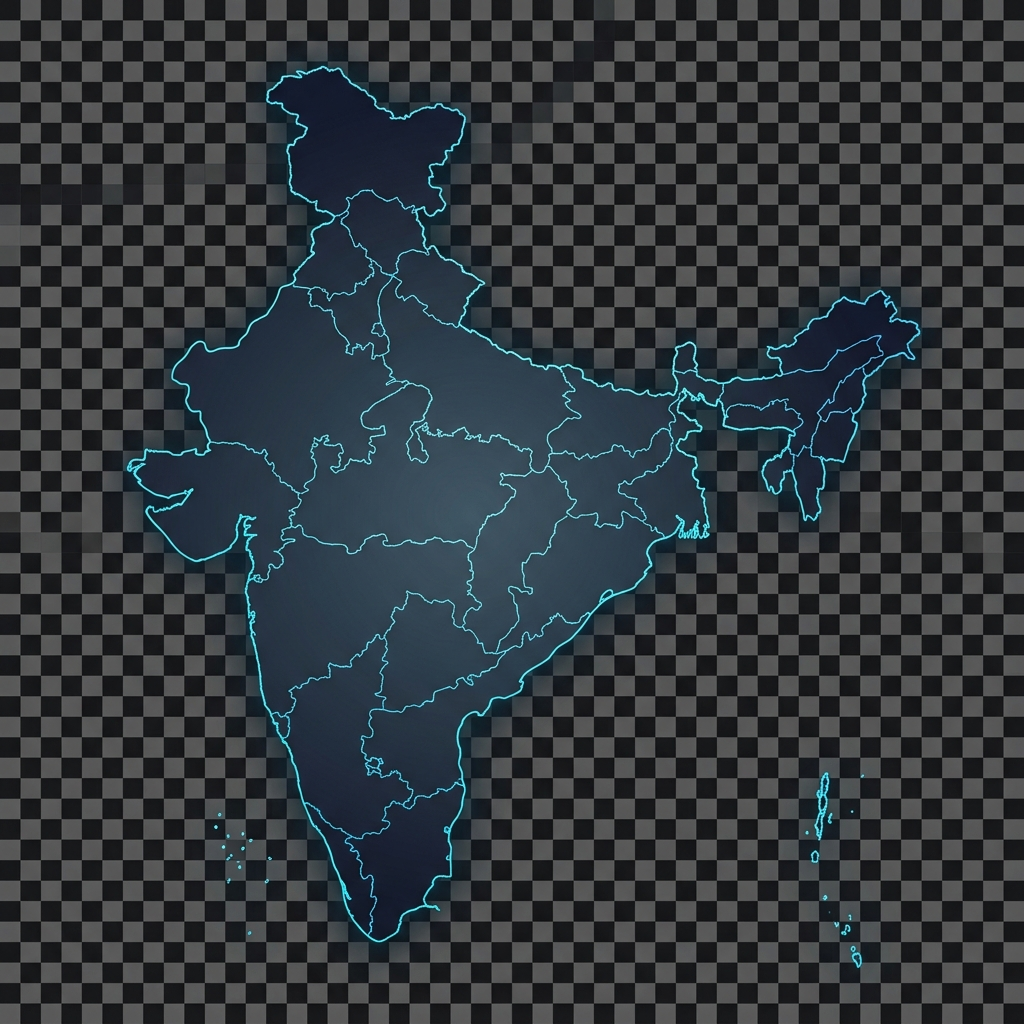
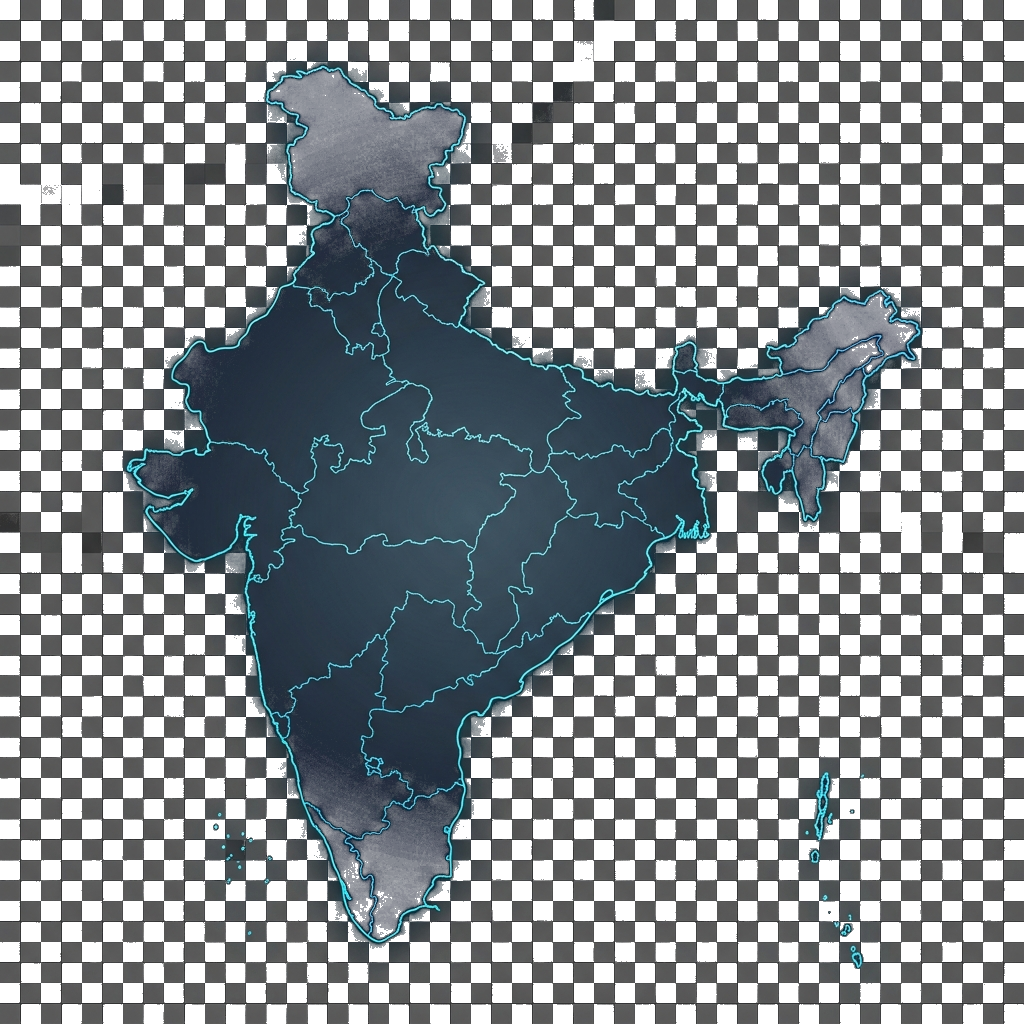
Erase map background to pure white/transparent

diff --git a/frontend/src/components/ConnectivityMap.jsx b/frontend/src/components/ConnectivityMap.jsx
@@ -42,7 +42,7 @@ export default function ConnectivityMap() {
       <div className="relative z-10 w-full max-w-[500px] sm:max-w-[700px] mx-auto mb-4 flex justify-center">
         <div className="relative inline-block w-full">
           {/* Map inverted for white background */}
-          <img src="/india_map.png" alt="Map of India" className="w-full h-auto invert opacity-60 mix-blend-multiply block" />
+          <img src="/india_map.png" alt="Map of India" className="w-full h-auto invert opacity-60 block" />
           
           {/* Connecting Lines */}
           <svg className="absolute inset-0 w-full h-full pointer-events-none z-10">